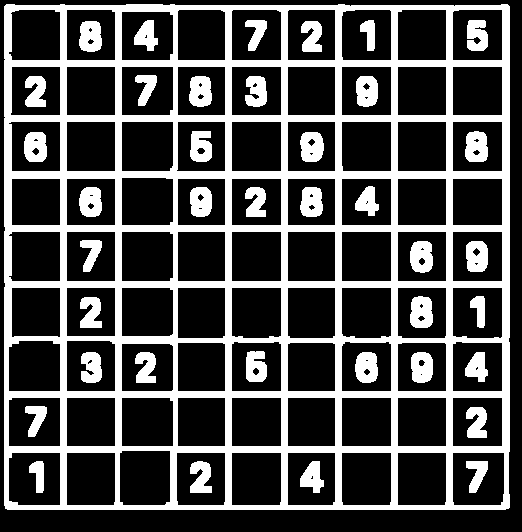
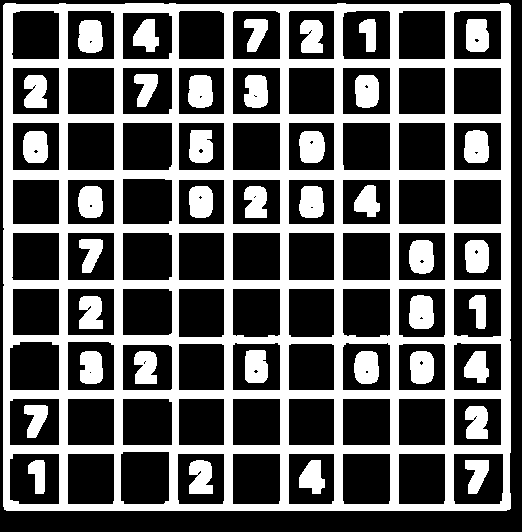
image processing working well with thin boardered sudoku boards

diff --git a/OpenCvTest/test.py b/OpenCvTest/test.py
@@ -9,8 +9,8 @@ from pprint import pprint
 class Board():
 
 	MAX_VALUE = 255
-	guassianBlurKernel = (3,3)
-	dialateKernel = np.ones((5,5),np.uint8)
+	guassianBlurKernel = (5,5)
+	dialateKernel = np.ones((7,7),np.uint8)
 	erodeKernel = np.ones((3,3),np.uint8)
 	rawImage = None
 
@@ -29,7 +29,7 @@ class Board():
 								["Color", "Threshold", "Erode", "GaussianBlur", "Canny", "Dialate"],
 								["Color", "Threshold", "Canny", "Dialate"]]
 
-		imageProccessOrders = [["Color", "Canny", "Dialate", "Threshold"]]
+		imageProccessOrders = [["Color", "Canny", "Dialate", "GaussianBlur", "Threshold"]]
 
 
 		# Retrieve sudoku cell regions
@@ -98,6 +98,12 @@ class Board():
 
 		edges, contours, hierarchy = cv.findContours(processedImage, cv.RETR_TREE, cv.CHAIN_APPROX_SIMPLE)
 
+		width, height = edges.shape[:2]
+		imageArea = width * height
+		cellAreaMax = (imageArea * .80) / 81
+		cellAreaMin = (imageArea * .60) / 81
+		print("cellAreaMin: {}   cellAreaMax: {}".format(cellAreaMin, cellAreaMax))
+
 
 		cells = []					# Final contours to use as ROI(Region Of Interest)
 		alreadyVisitedContours = []	# List of visisted coordinates; some contours have the exact same location
@@ -108,8 +114,9 @@ class Board():
 
 			# Find all cell-like contours (cells that store sudoku numbers)
 			alreadyVisited = cnt[0][0].tolist() in alreadyVisitedContours
-			areaGreaterThan = cv.contourArea(cnt) >= 700
-			areaSmallerThan = cv.contourArea(cnt) <= 1200
+			areaGreaterThan = cv.contourArea(cnt) >= cellAreaMin
+			areaSmallerThan = cv.contourArea(cnt) <= cellAreaMax
+			print(cv.contourArea(cnt))
 			if areaGreaterThan and areaSmallerThan and not alreadyVisited:
 				alreadyVisitedContours.append(cnt[0][0].tolist())
 				cells.append(cnt)
